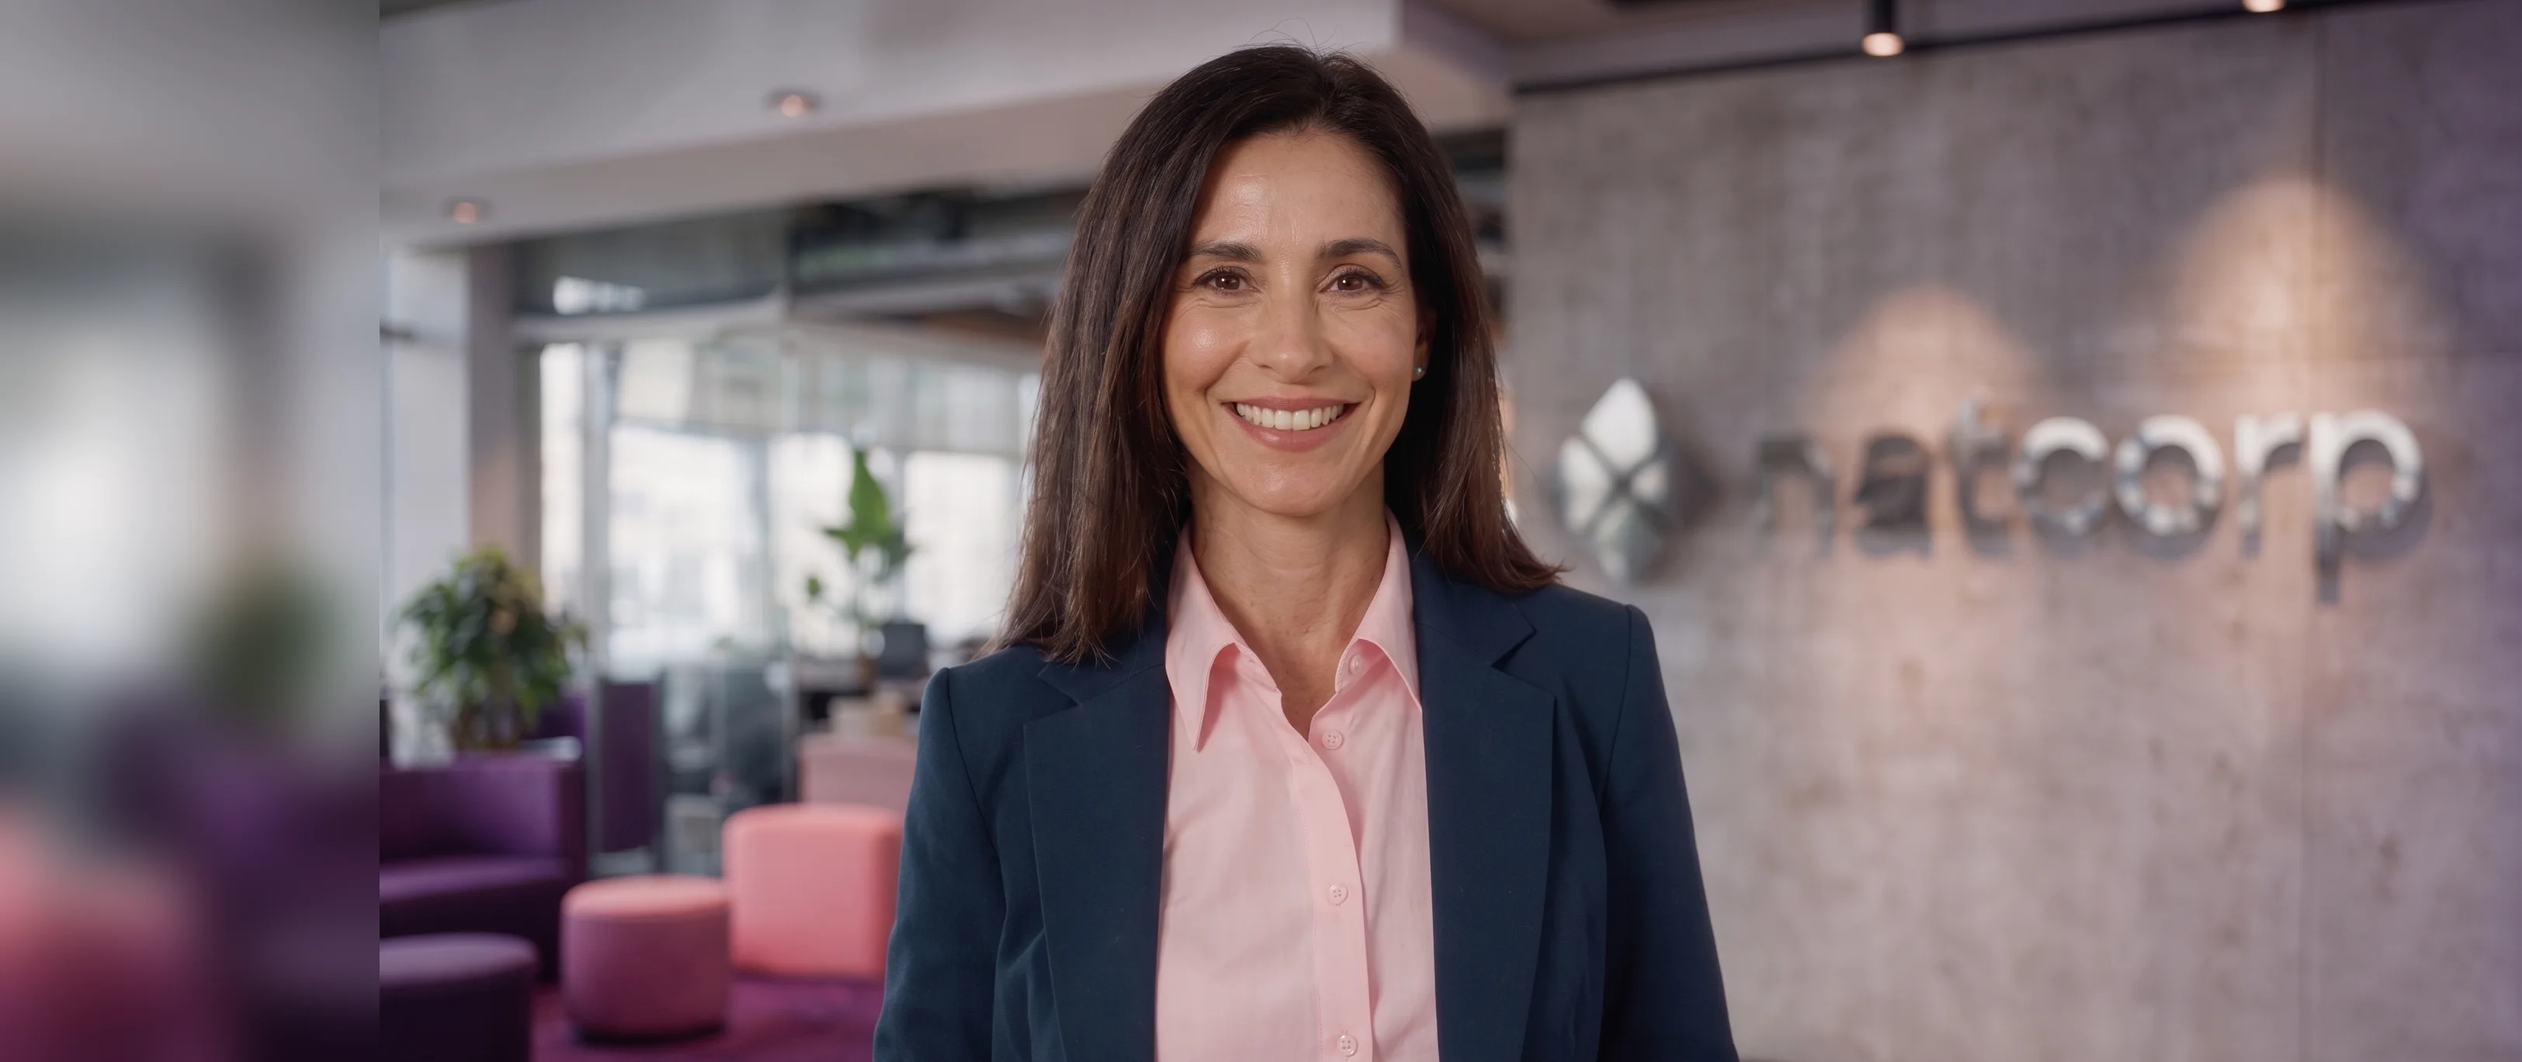
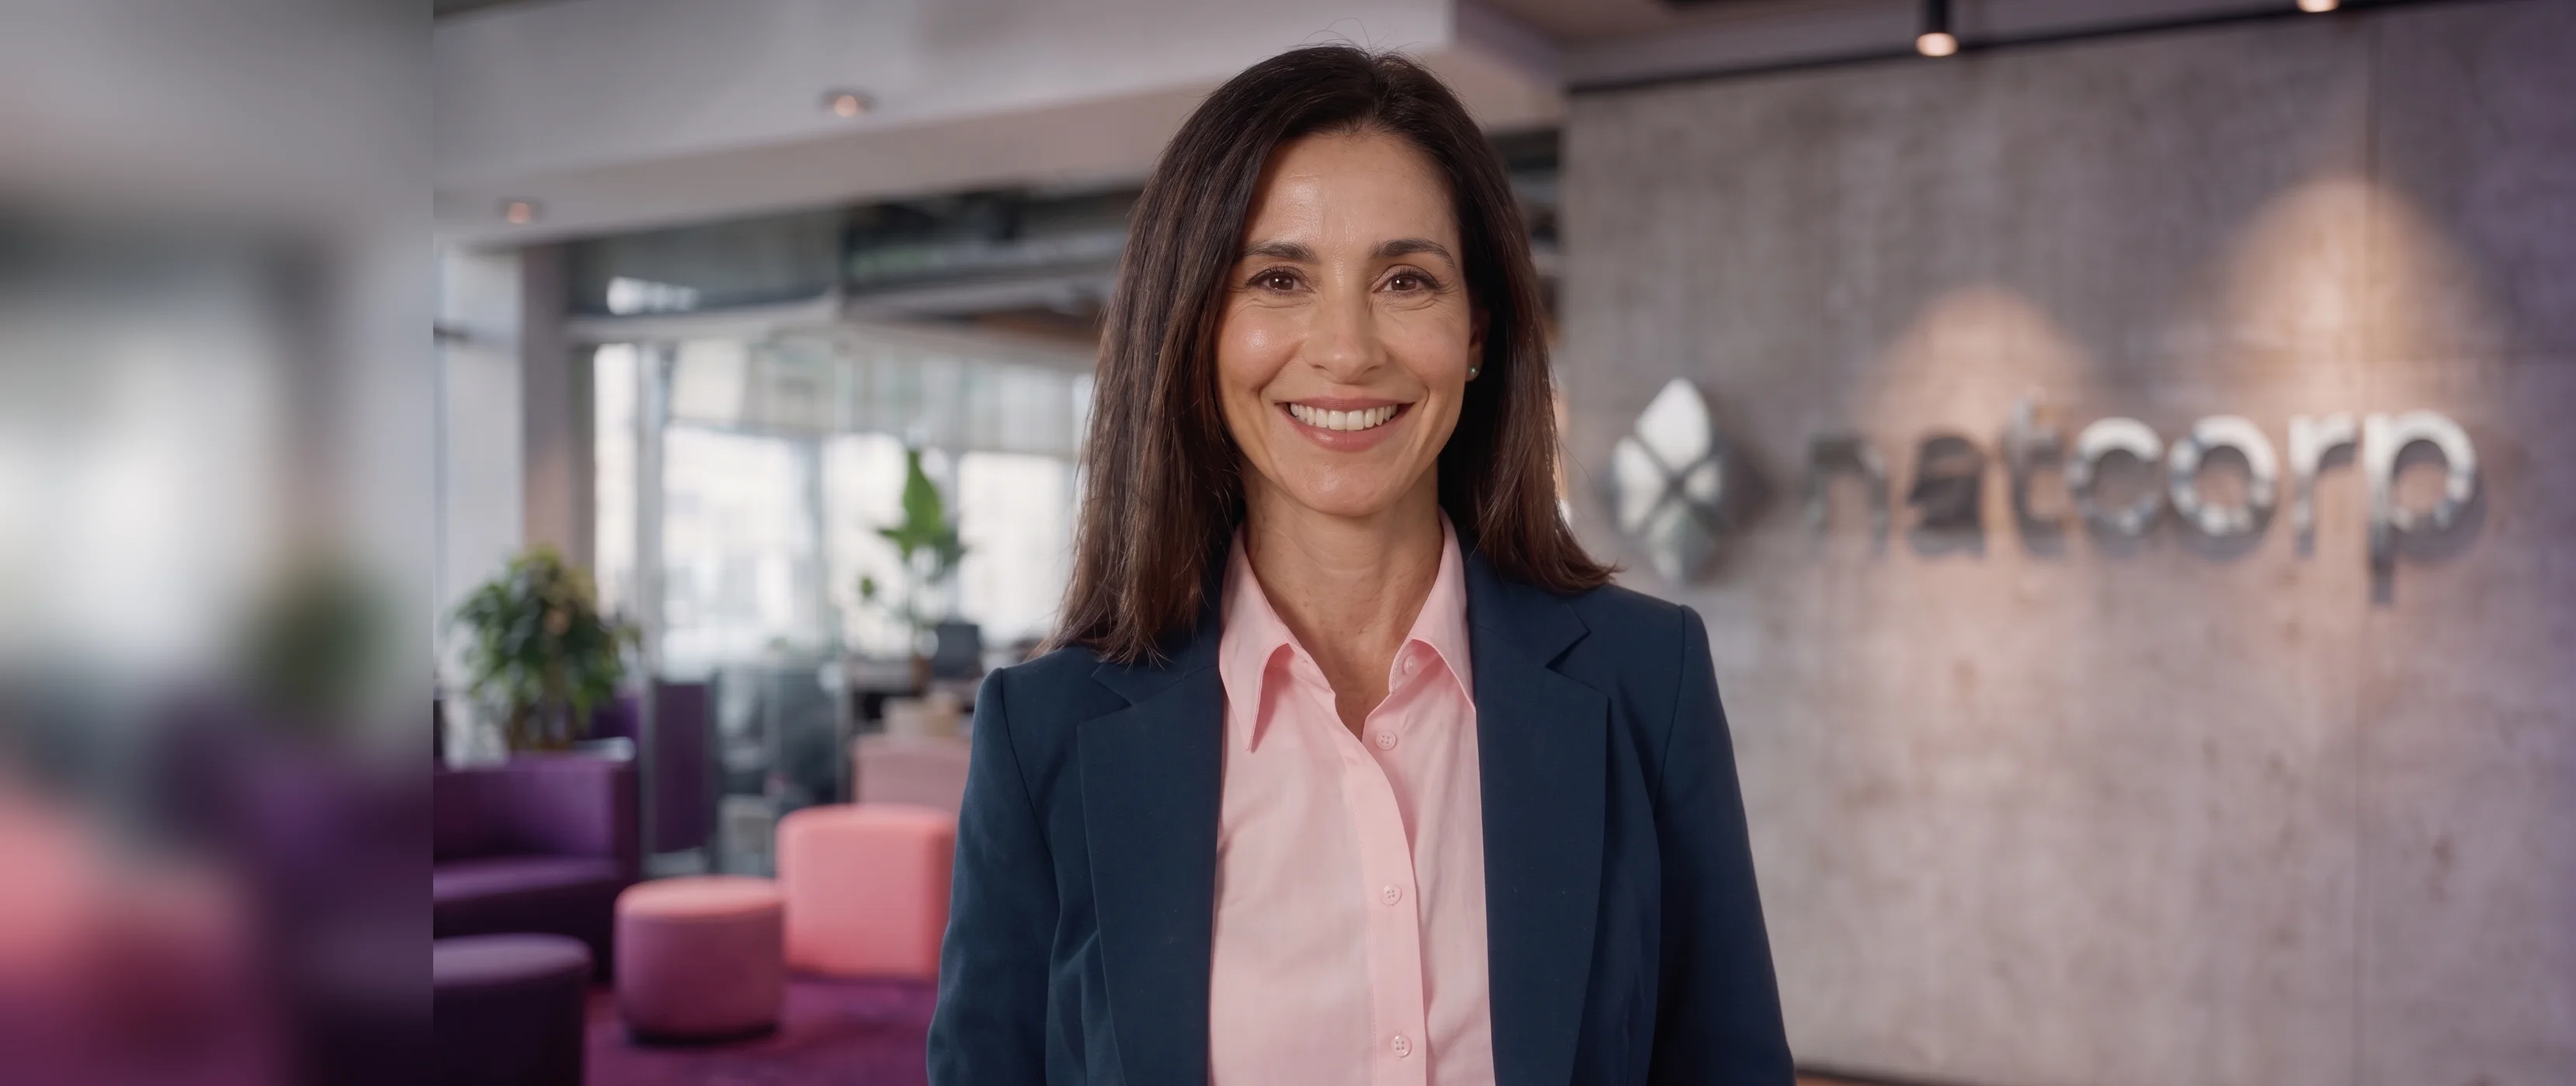
Hero: rosto a 68%, e o letreiro sai do quadro
Mais 7 pontos à direita, como pedido: o rosto sai de 61,7% para 68,4% da largura.
A tela estendida cresceu de 489 para 558px e o --fx voltou a 0%.

O PREÇO É O LETREIRO, E ELE É INEVITÁVEL

Rosto e letreiro estão a 910px um do outro na foto, e a janela mostra ~75% da
largura da imagem. Empurrar um empurra o outro para fora: é gangorra, não ajuste.
Agora sobra o símbolo do natcorp na parede, mas o "a" ficou de fora por poucos
pixels.

Manter os dois exigiria estender a tela para ~1120px de pixel fabricado, quase um
terço da imagem — aí a faixa espelhada sairia da zona onde o véu a esconde e
passaria a se ver como um borrão.

Quem quiser o letreiro de volta troca uma linha: --fx:16% devolve o "a" e traz o
rosto para 63%. Os dois extremos foram vistos e funcionam. Está escrito no
comentário do componente que é escolha de composição, não pendência.

Celular ajustado de 51% para 52%, acompanhando a tela maior.

Claude-Session: https://claude.ai/code/session_01G7eE5hi4R3ic2E6zyH6cPV

diff --git a/src/components/hero/HeroScene.tsx b/src/components/hero/HeroScene.tsx
@@ -26,10 +26,16 @@ import heroV2Large from '@/assets/people/hero-v2-3152.webp'
  *
  * POR QUE A IMAGEM TEM 489px DE TELA ESTENDIDA À ESQUERDA
  *
- * Rosto e letreiro estão a 910px um do outro na foto. Para o rosto ficar em 62% da tela (longe do véu
- * e do título) e o "a" do natcorp continuar visível, a janela teria de começar 335px ANTES da borda
- * esquerda da foto. Nenhum recorte resolve isso — a conta não fecha com a foto original, e recortar
- * mais fechado só deixa a pessoa maior, porque o quadro é sempre esticado para cobrir a seção.
+ * Rosto e letreiro estão a 910px um do outro na foto, e a janela mostra ~75% da largura da imagem.
+ * Empurrar o rosto para a direita empurra o letreiro para fora — é uma gangorra, não um ajuste.
+ * Recortar mais fechado não ajuda: só deixa a pessoa maior, porque o quadro é sempre esticado para
+ * cobrir a seção.
+ *
+ * HOJE A GANGORRA ESTÁ NO ROSTO, NÃO NO LETREIRO.
+ *
+ * Com --fx:0% o rosto fica em 68% da largura, bem longe do título, e do letreiro sobra só o símbolo —
+ * o "a" do natcorp fica fora por poucos pixels. Para trazer o letreiro de volta, --fx:16% devolve o
+ * "a" e traz o rosto para 63%. Os dois extremos foram vistos e funcionam; é escolha de composição.
  *
  * Então a tela cresceu: os 489px à esquerda são os 489px da própria foto, espelhados e com desfoque
  * forte. Eles caem na faixa onde o véu tem 78% a 92% de roxo, e por isso não se veem. A alternativa
@@ -89,7 +95,7 @@ export function HeroScene({ on, reduced, loops = true, instant = false, y }: Her
       */}
       <div className="absolute inset-x-0 top-0 h-[62%] overflow-hidden [container-type:size] lg:h-full">
         <m.div
-          className="absolute [--fx:51%] [--fy:50%] lg:[--fx:17%] lg:[--fy:45%]"
+          className="absolute [--fx:52%] [--fy:50%] lg:[--fx:0%] lg:[--fy:45%]"
           style={{
             left: 'var(--fx)',
             top: 'var(--fy)',
@@ -107,7 +113,7 @@ export function HeroScene({ on, reduced, loops = true, instant = false, y }: Her
         >
           <img
             src={heroV2}
-            srcSet={`${heroV2} 2000w, ${heroV2Large} 3249w`}
+            srcSet={`${heroV2} 2000w, ${heroV2Large} 3318w`}
             sizes="(min-width: 1024px) 125vw, 150vw"
             alt="Profissional de RH sorrindo no escritório da Natcorp, com o logotipo da empresa na parede ao fundo"
             width={W}
